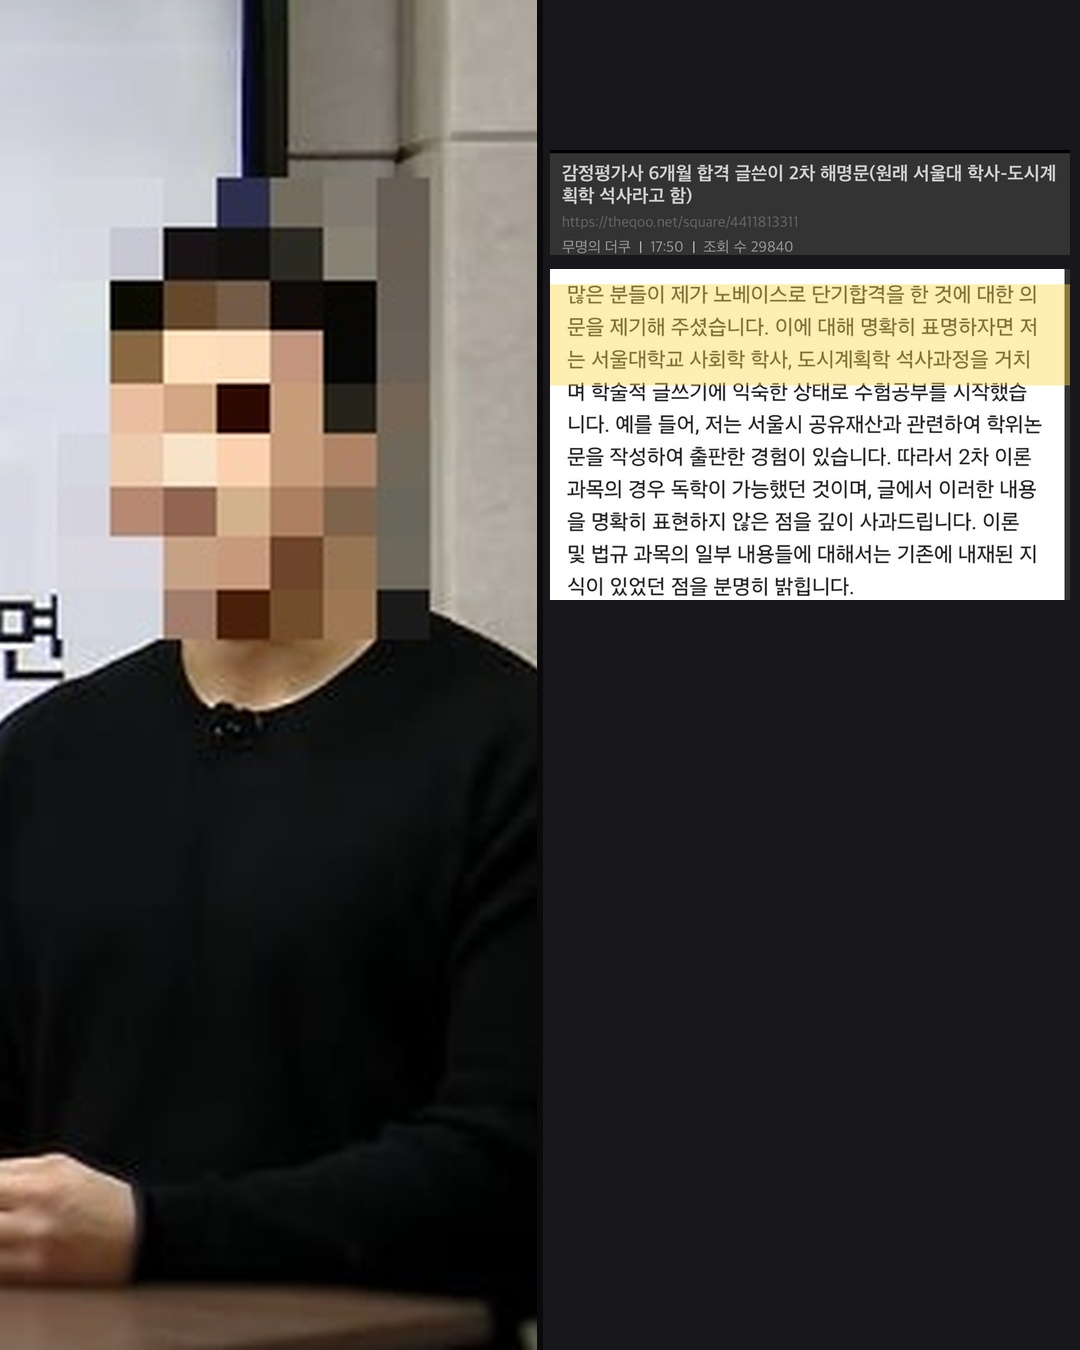
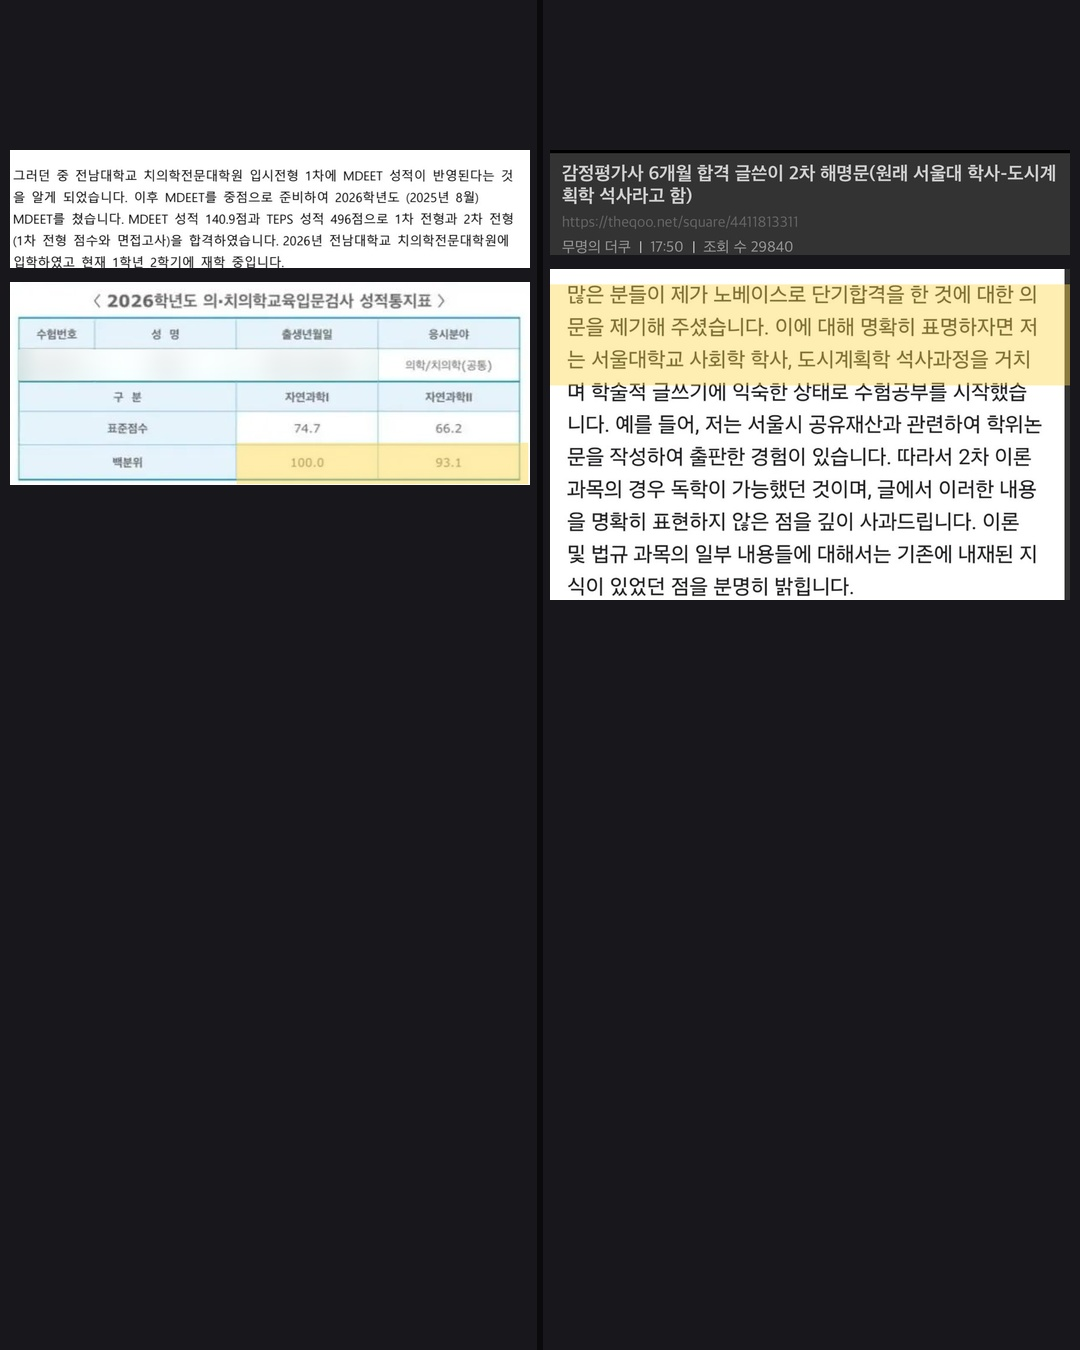
distrust: 표지 얼굴 빼고 성적표·해명문 나란히
Claude-Session: https://claude.ai/code/session_01FGsw5S4nGrZdCJo7qBU1wE

Changed region(s): [[0.0, 0.0, 0.5194, 0.56], [0.0, 0.7467, 0.5194, 1.0], [0.2444, 0.5911, 0.5194, 0.8711]]

diff --git a/media/20261120-distrust/build_cards.py b/media/20261120-distrust/build_cards.py
@@ -138,7 +138,13 @@ for k, (n, c, cr) in {"P": ("press06.jpg", (.5, .5), None), "Q": ("press22.jpg",
 
 
 # 표지: 왼쪽 미트냥이(모자이크) / 오른쪽 감평냥이 해명문(서울대 석사 강조)
-L = ImageOps.fit(op("m1m.jpg").crop((700, 90, 910, 470)), (540, 1350), Image.LANCZOS, centering=(.5, .3))
+L = Image.new("RGB", (540, 1350), (24, 24, 28))
+_t = op("m6.jpg"); _t.paste(_t.crop((25, 400, 450, 436)).filter(ImageFilter.GaussianBlur(14)), (25, 400))
+_a = _t.crop((15, 0, 1075, 240)); _a = _a.resize((520, round(_a.height * 520 / _a.width)), Image.LANCZOS)
+_b = _t.crop((15, 320, 630, 560))
+ov2 = Image.new("RGBA", _b.size, (0, 0, 0, 0)); ImageDraw.Draw(ov2).rectangle((268, 190, 612, 238), fill=(255, 216, 77, 120))
+_b = Image.alpha_composite(_b.convert("RGBA"), ov2).convert("RGB"); _b = _b.resize((520, round(_b.height * 520 / _b.width)), Image.LANCZOS)
+L.paste(_a, (10, 150)); L.paste(_b, (10, 150 + _a.height + 14))
 Rr = Image.new("RGB", (540, 1350), (24, 24, 28))
 hd = op("g1.jpg").crop((0, 195, 943, 385)); hd = hd.resize((520, round(hd.height * 520 / hd.width)), Image.LANCZOS)
 pg = op("g5.jpg").crop((40, 1030, 920, 1590))
